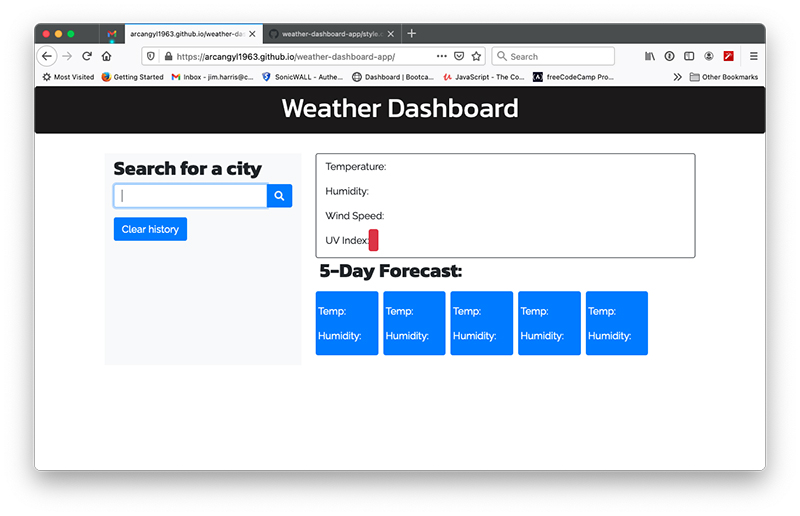
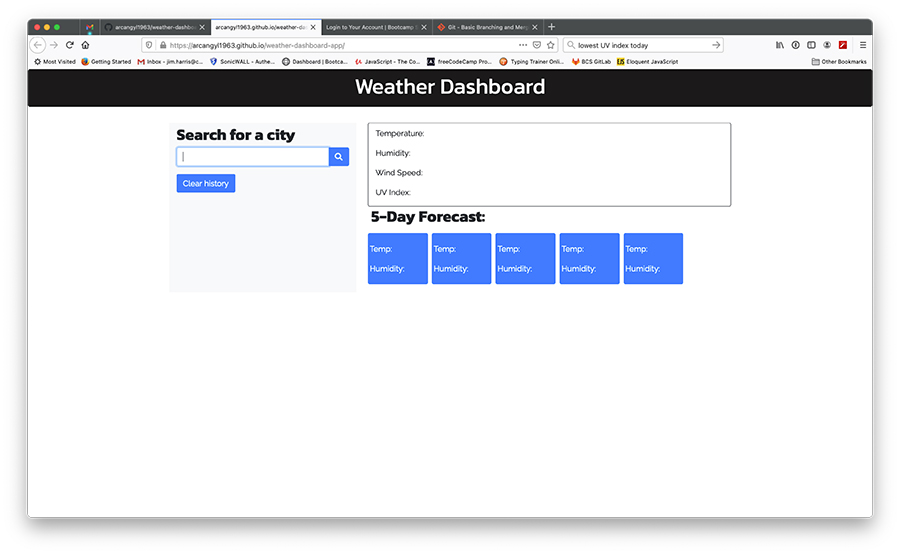
Updated the README with new screenshots and edited copy

diff --git a/README.md b/README.md
@@ -25,7 +25,7 @@ The second image shows a city name entered into the text field for the city sear
 
 ![City search text entry field.](./assets/images/weather-app_screen2.jpg)
 
-The third image shows the retrieved weather information for current day and 5-day forecast for the searched city.
+The third image shows the retrieved weather information for current day and 5-day forecast for the searched city. Additionally, it shows the 3 states of the UV Index color labeling based on the index value received from the API
 
 ![Searched city weather info screen](./assets/images/weather-app_screen3.jpg)
 
